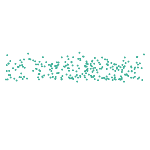
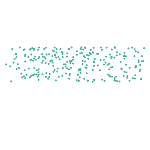
Fixed uncertainty bars

diff --git a/client/timeseries/series.js b/client/timeseries/series.js
@@ -34,15 +34,15 @@ Template.series.helpers({
           followTouchMove: false,
         },
         yAxis: {
-          offset: -15,
+          offset: -13,
           minPadding: 0,
           tickLength: 0,
-          //ceiling: 150,
-          max: 180,
-          //floor: 0,
+          ceiling: 200,
+          max: 200,
+          floor: 0,
           min: 0,
           minRange: min,
-          tickAmount: 4,
+          tickAmount: 3,
         },
         colors: ['#717171'],
         series: [{
@@ -73,7 +73,7 @@ Template.series.helpers({
     var x = 0;
     var y = 0;
     var v = 0;
-    var c = Session.get("avg");
+    var c = Session.get("avg")/100;
     var n = 0;
     var upr1 = 0;
     var upr2 = 0;
@@ -81,58 +81,94 @@ Template.series.helpers({
     var lwr2 = 0;
     var show = false;
 
-    var start = Number(this.start);
-    var close = Number(this.close);
-    // Get the value of each slider and adjust it to decimals.
-    var sldr1 = Session.get("slider1")/100;
-    var sldr2 = Session.get("slider2")/100;
-    var sldr3 = Session.get("slider3")/100;
-    var sldr4 = Session.get("slider4")/100;
-    // Get the prediction given the current value of each slider...
-    var advice = 0;
-    var news   = 0;
-    var media  = 0;
-    var index  = 0;
+    var lwr_max = 0;
+    var lwr_min = 0;
+    var upr_max = 0;
+    var upr_min = 0;
+
+    var fit_lwr = 0;
+    var fit_upr = 0;
+
+    var m1 = 0;
+    var m2 = 0;
 
     if(Session.get("slider1-on")) {
-      advice = (stock.a_m1 * sldr1) + stock.a_m2;
+      m1 += stock.a_m1;
+      m2 += stock.a_m2;
+      lwr_max += stock.a_lwr_max;
+      lwr_min += stock.a_lwr_min;
+      upr_max += stock.a_upr_max;
+      upr_min += stock.a_upr_min;
+      fit_lwr += stock.a_fit_max;
+      fit_upr += stock.a_fit_min;
       n = n+1;
       show = true;
     }
     if(Session.get("slider2-on")){
-      news = (stock.n_m1 * sldr2) + stock.n_m2;
-      n = n+1;
-      show = true;
-    }
-    if(Session.get("slider3-on")){
-      media = (stock.m_m1 * sldr3) + stock.m_m2;
-      n = n+1;
-      show = true;
-    }
-    if(Session.get("slider4-on")){
-      index = (stock.i_m1 * sldr4) + stock.i_m2;
+      m1 += stock.n_m1;
+      m2 += stock.n_m2;
+      lwr_max += stock.n_lwr_max;
+      lwr_min += stock.n_lwr_min;
+      upr_max += stock.n_upr_max;
+      upr_min += stock.n_upr_min;
+      fit_lwr += stock.n_fit_max;
+      fit_upr += stock.n_fit_min;
       n = n+1;
       show = true;
     }
 
-    y = 100 - (((advice + news + media + index)/n)*100);
-    v = (200 * (1 - (y/100))).toFixed(2);
+    if(Session.get("slider3-on")){
+      m1 += stock.m_m1;
+      m2 += stock.m_m2;
+      lwr_max += stock.m_lwr_max;
+      lwr_min += stock.m_lwr_min;
+      upr_max += stock.m_upr_max;
+      upr_min += stock.m_upr_min;
+      fit_lwr += stock.m_fit_max;
+      fit_upr += stock.m_fit_min;
+      n = n+1;
+      show = true;
+    }
+
+    if(Session.get("slider4-on")){
+      m1 += stock.i_m1;
+      m2 += stock.i_m2;
+      lwr_max += stock.i_lwr_max;
+      lwr_min += stock.i_lwr_min;
+      upr_max += stock.i_upr_max;
+      upr_min += stock.i_upr_min;
+      fit_lwr += stock.i_fit_max;
+      fit_upr += stock.i_fit_min;
+      n = n+1;
+      show = true;
+    }
+
+    m1 = m1/n;
+    m2 = m2/n;
+
+    y = (m2 * c) + m1;
+    v = (200 * y).toFixed(2);
+
+    fit_upr = m2 + m1;
+    fit_lwr = m1;
 
     difference = ((v - close)/close)*100;
-    y =  start - difference;
 
     if(y < 0) y = 0;
     if(c < 0) c = 0;
     if(v < 0) v = 0;
     if(y > 100) y = 100;
     if(c > 100) c = 100;
+
     return {
       value: v, // Actual predicted value;
-      y: y.toFixed(2), // Uses percentages
+      y: 100 - (y*100), // Uses percentages
       diff: difference,
       show: show,
-      lwr: (y*1.3).toFixed(2),
-      upr: (y*0.7).toFixed(2)
+      last: (stock.last).toFixed(2),
+      start: 100-((stock.last/200)*100),
+      lwr: (100 - (fit_lwr*100)).toFixed(2),
+      upr: (100 - (fit_upr*100)).toFixed(2)
     }
   }
 });

diff --git a/client/dotplot/dotplot.js b/client/dotplot/dotplot.js
@@ -30,15 +30,23 @@ Template.dotplot.helpers({
     var sum_lwr1 = [];
     var sum_lwr2 = [];
 
-    var sldr1 = Session.get("slider1")/100;
-    var sldr2 = Session.get("slider2")/100;
-    var sldr3 = Session.get("slider3")/100;
-    var sldr4 = Session.get("slider4")/100;
+    var c = Session.get("avg")/100;
 
     var advice = 0;
     var news   = 0;
     var media  = 0;
     var index  = 0;
+
+    var lwr_max = 0;
+    var lwr_min = 0;
+    var upr_max = 0;
+    var upr_min = 0;
+
+    var fit_lwr = 0;
+    var fit_upr = 0;
+
+    var m1 = 0;
+    var m2 = 0;
 
     var q1 = (stock.max).toFixed(2);
     var q2 = (stock.max*0.75).toFixed(2);
@@ -47,28 +55,64 @@ Template.dotplot.helpers({
     var q5 = 0;
 
     if(Session.get("slider1-on")) {
-      advice = (stock.a_m1 * sldr1) + stock.a_m2;
+      m1 += stock.a_m1;
+      m2 += stock.a_m2;
+      lwr_max += stock.a_lwr_max;
+      lwr_min += stock.a_lwr_min;
+      upr_max += stock.a_upr_max;
+      upr_min += stock.a_upr_min;
+      fit_lwr += stock.a_fit_max;
+      fit_upr += stock.a_fit_min;
       n = n+1;
       show = true;
     }
-    if(Session.get("slider2-on")) {
-      news = (stock.n_m1 * sldr2) + stock.n_m2;
-      n = n+1;
-      show = true;
-    }
-    if(Session.get("slider3-on")) {
-      media = (stock.m_m1 * sldr3) + stock.m_m2;
-      n = n+1;
-      show = true;
-    }
-    if(Session.get("slider4-on")) {
-      index = (stock.i_m1 * sldr4) + stock.i_m2;
+    if(Session.get("slider2-on")){
+      m1 += stock.n_m1;
+      m2 += stock.n_m2;
+      lwr_max += stock.n_lwr_max;
+      lwr_min += stock.n_lwr_min;
+      upr_max += stock.n_upr_max;
+      upr_min += stock.n_upr_min;
+      fit_lwr += stock.n_fit_max;
+      fit_upr += stock.n_fit_min;
       n = n+1;
       show = true;
     }
 
-    y = 100 - (((advice + news + media + index)/n)*100);
-    v = (200 * (1 - (y/100))).toFixed(2);
+    if(Session.get("slider3-on")){
+      m1 += stock.m_m1;
+      m2 += stock.m_m2;
+      lwr_max += stock.m_lwr_max;
+      lwr_min += stock.m_lwr_min;
+      upr_max += stock.m_upr_max;
+      upr_min += stock.m_upr_min;
+      fit_lwr += stock.m_fit_max;
+      fit_upr += stock.m_fit_min;
+      n = n+1;
+      show = true;
+    }
+
+    if(Session.get("slider4-on")){
+      m1 += stock.i_m1;
+      m2 += stock.i_m2;
+      lwr_max += stock.i_lwr_max;
+      lwr_min += stock.i_lwr_min;
+      upr_max += stock.i_upr_max;
+      upr_min += stock.i_upr_min;
+      fit_lwr += stock.i_fit_max;
+      fit_upr += stock.i_fit_min;
+      n = n+1;
+      show = true;
+    }
+
+    m1 = m1/n;
+    m2 = m2/n;
+
+    var fit_upr = (m2 * 1) + m1;
+    var fit_lwr = m1;
+
+    y = (m2 * c) + m1;
+    v = (200 * y).toFixed(2);
 
     if(y < 0) y = 0;
     if(c < 0) c = 0;
@@ -77,17 +121,17 @@ Template.dotplot.helpers({
     if(c > 100) c = 100
 
   return {
-    a1: (200-(y*1.0))-14,
-    a2: (200-(y*1.2))-14,
-    a3: (200-(y*1.4))-14,
-    a4: (200-(y*1.6))-14,
-    a5: (200-(y*1.8))-14,
-    a6: (200-(y*2))-14, // This is correct!
-    a7: (200-(y*2.2))-14,
-    a8: (200-(y*2.4))-14,
-    a9: (200-(y*2.6))-14,
-    a10:(200-(y*2.8))-14,
-    a11:(200-(y*3.0))-14,
+    a1: (fit_upr*200)-14,
+    a2: (y*200)-14,
+    a3: (y*200)-14,
+    a4: (y*200)-14,
+    a5: (y*200)-14,
+    a6: (y*200)-14, // This is correct!
+    a7: (y*200)-14,
+    a8: (y*200)-14,
+    a9: (y*200)-14,
+    a10:(y*200)-14,
+    a11:(fit_lwr*200)-14,
     text: v,
     p: 0,
     q1: q1,

diff --git a/client/index.html b/client/index.html
@@ -53,14 +53,14 @@
 
 <template name="timeseries">
   <div class="visualisations-row">
-    {{>series name="dis"  title="Disney"     close="97.82" diff="1.00"  prcnt="1.02" high="125" mid="100" low="75" top="47" start="66"}}
-    {{>series name="hd"   title="Home Depot" close="51.16" diff="0.33"  prcnt="0.35" high="60"  mid="50"  low="40" top="42" start="58"}}
-    {{>series name="aapl" title="Apple"      close="95.58" diff="0.33"  prcnt="0.35" high="150" mid="100" low="50" top="48" start="68"}}
+    {{>series name="dis"  title="Disney"     diff="1.00"  prcnt="1.02" high="125" mid="100" low="75" top="35" start="52"}}
+    {{>series name="hd"   title="Home Depot" diff="0.33"  prcnt="0.35" high="60"  mid="50"  low="40" top="25" start="37"}}
+    {{>series name="aapl" title="Apple"      diff="0.33"  prcnt="0.35" high="150" mid="100" low="50" top="35" start="52"}}
   </div>
   <div class="visualisations-row">
-    {{>series name="cvx" title="Chevron"    close="45.33"  diff="-0.20" prcnt="-0.44" high="50"  mid="40"  low="30"  top="50" start="66"}}
-    {{>series name="ibm" title="IBM"        close="151.78" diff="2.27"  prcnt="1.5"   high="200" mid="150" low="100" top="38" start="52"}}
-    {{>series name="mcd" title="McDonald's" close="55.2"   diff="-0.43" prcnt="-0.78" high="200" mid="100" low="0"   top="44" start="60"}}
+    {{>series name="cvx" title="Chevron"    diff="-0.20" prcnt="-0.44" high="50"  mid="40"  low="30"  top="35" start="49"}}
+    {{>series name="ibm" title="IBM"        diff="2.27"  prcnt="1.5"   high="200" mid="150" low="100" top="15" start="25"}}
+    {{>series name="mcd" title="McDonald's" diff="-0.43" prcnt="-0.78" high="200" mid="100" low="0"   top="25" start="41"}}
   </div>
 </template>
 

diff --git a/client/timeseries/series.html b/client/timeseries/series.html
@@ -3,14 +3,14 @@
     <div class="dotplot-title">
       <h1> {{this.title}}
         <div class="title-right">
-          <span>${{this.close}}</span> USD
+          <!-- <span>${{prediction.last}}</span> USD -->
         </div>
       </h1>
       <h2> NYSE: {{this.name}}
-        <span style="color: {{stock.color}}">
+        <!-- <span style="color: {{stock.color}}">
           <i class="fa fa-arrow-{{stock.arrow}}"></i>
           {{this.diff}} ({{this.percent}}%)
-        </span>
+        </span> -->
       </h2>
     </div>
     <div class="series-viz">
@@ -24,7 +24,7 @@
           <div class="yaxis mid"> {{this.mid}}</div>
           <div class="yaxis low"> {{this.low}}</div>
         </div> -->
-        <div class="now-legend" style="top: {{this.top}}%">${{this.close}}</div>
+        <div class="now-legend" style="top: {{this.top}}%">${{prediction.last}}</div>
         <h1 style="text-align: right; margin-top: 0px;"><i class="fa fa-caret-left"></i> Last 12 Months&nbsp;</h1>
       </div>
       <div class="series-viz-content">

diff --git a/client/sidebar/sidebar.html b/client/sidebar/sidebar.html
@@ -1,8 +1,8 @@
 <template name="sidebar">
-  {{> slider title="Analysts Advice" color="slider-green"  tag="slider1"}}
+  {{> slider title="Consumer Trust"  color="slider-green"  tag="slider1"}}
   {{> slider title="Worldwide News"  color="slider-purple" tag="slider2"}}
   {{> slider title="Gold Price"      color="slider-orange" tag="slider3"}}
-  {{> slider title="Stock Index"     color="slider-blue"   tag="slider4"}}
+  {{> slider title="Interest Rate"   color="slider-blue"   tag="slider4"}}
   {{> accuracy}}
   <div class="sidebar-debug">{{average}}</div>
 </template>

diff --git a/client/timeseries/series.css b/client/timeseries/series.css
@@ -183,7 +183,7 @@
 }
 
 .series-container {
-  width:  250px;
+  /*width:  250px;*/
   height: 225px;
   cursor: default;
   position: relative;

diff --git a/client/timeseries/chart.css b/client/timeseries/chart.css
@@ -98,7 +98,7 @@
   /*background: red;*/
   overflow: hidden;
   z-index: 1;
-  width: 40px;
+  width: 42px;
 }
 
 .prediction-axis .pred {
